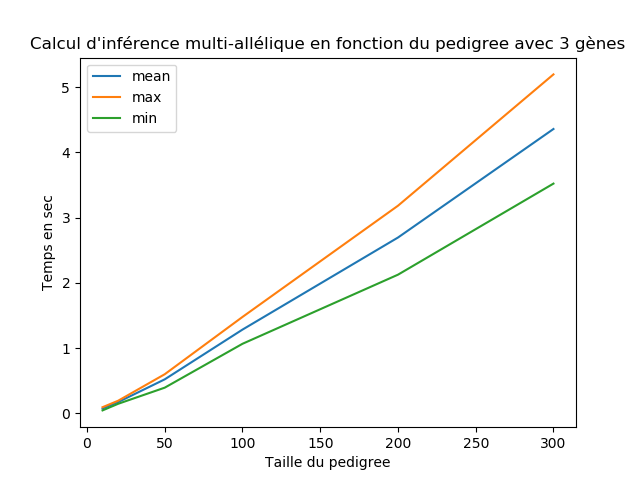
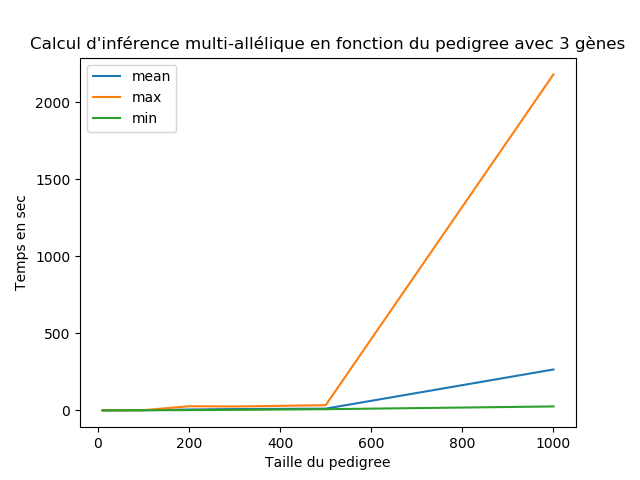
test with lbp

diff --git a/cplex/data/multi/read_file.py b/cplex/data/multi/read_file.py
@@ -3,10 +3,10 @@ import random
 import matplotlib.pyplot as plt
 import numpy as np
 
-nb_people = [10,20,50,100,200,300,500,1000,1500,2000]
+nb_people = [10,20,50,100,200,300,500,1000]
 #nb_people = [10,20,50,100,200,300,500,1000,1500,2000,2100,2200,2300,2400]
-g = 2
-gene_depart = 2
+g = 3
+gene_depart = 3
 def file_to_data(file,g):
     res = dict()
     max_res = dict()
@@ -67,43 +67,9 @@ def file_to_data(file,g):
 
     return mean_res,max_res,min_res,errorValues_res
 
-#mean_res,max_res,min_res,errorValues_res = file_to_data('./data_bn', 4)
-#mean_res,max_res,min_res,errorValues_res = file_to_data('/home/valentin/Documents/Stage/backup/multi/Nouveau dossier/data_bn', 4)
-# f1 = plt.figure(1)
-# legende = []
-#
-# for i in range(2,g+1):
-#     c = (random.random(), random.random(), random.random())
-#     ec = (random.random(),random.random(),random.random())
-#     plt.errorbar(nb_people, mean_res[i], yerr = errorValues_res[i], ecolor=ec,color=c)
-#     legende.append(f'{i}gène(s)')
-# plt.legend(legende)
-# plt.title('Temps de génération du BN en fonction de la taille du pedigree')
-# plt.xlabel('Taille du pedigree')
-# plt.ylabel('Temps en sec')
-# plt.savefig('./Temps de génération du BN en fonction de la taille du pedigree avec ecart-type')
-# #plt.savefig('/home/valentin/Documents/Stage/backup/multi/Nouveau dossier/Temps de génération du BN en fonction de la taille du pedigree avec ecart-type')
-# f1.show()
-#
-# mean_res,max_res,min_res,errorValues_res = file_to_data('./data_inf', 4)
-# #mean_res,max_res,min_res,errorValues_res = file_to_data('/home/valentin/Documents/Stage/backup/multi/Nouveau dossier/data_inf', 4)
-# f2 = plt.figure(1)
-# legende = []
-# for i in range(2,g+1):
-#     c = (random.random(), random.random(), random.random())
-#     ec = (random.random(),random.random(),random.random())
-#     plt.errorbar(nb_people, mean_res[i], yerr = errorValues_res[i], ecolor=ec,color=c)
-#     legende.append(f'{i}gène(s)')
-# plt.legend(legende)
-# plt.title('Calcul d\'inférence multi-allélique en fonction du pedigree avec Lazy')
-# plt.xlabel('Taille du pedigree')
-# plt.ylabel('Temps en sec')
-# plt.savefig('./Calcul d\'inférence multi-allélique avec Lazy')
-# #plt.savefig('/home/valentin/Documents/Stage/backup/multi/Nouveau dossier/Calcul d\'inférence multi-allélique avec Lazy')
-# f2.show()
 
-
-mean_res,max_res,min_res,errorValues_res = file_to_data('./data_bn_2G_30', 4)
+#mean_res,max_res,min_res,errorValues_res = file_to_data('./data_bn_3G_10', 4)
+mean_res,max_res,min_res,errorValues_res = file_to_data('./lbp/data_bn_3G_10', 4)
 #mean_res,max_res,min_res,errorValues_res = file_to_data('/home/valentin/Documents/Stage/backup/multi/Nouveau dossier/data_bn', 4)
 for i in range(gene_depart,g+1):
     plt.figure()
@@ -114,11 +80,13 @@ for i in range(gene_depart,g+1):
     plt.title(f'Temps de génération du BN en fonction du pedigree avec {i} gènes')
     plt.xlabel('Taille du pedigree')
     plt.ylabel('Temps en sec')
-    plt.savefig(f'./Gen {i} Genes 30 samples')
+    #plt.savefig(f'./Gen {i} Genes 10 samples')
+    plt.savefig(f'./lbp/Gen {i} Genes 10 samples')
     #plt.savefig(f'/home/valentin/Documents/Stage/backup/multi/Nouveau dossier/Temps de génération du BN multi-allélique en fonction du pedigree avec {i} gènes')
     plt.show()
 
-mean_res,max_res,min_res,errorValues_res = file_to_data('./data_inf_2G_30', 4)
+#mean_res,max_res,min_res,errorValues_res = file_to_data('./data_inf_3G_10', 4)
+mean_res,max_res,min_res,errorValues_res = file_to_data('./lbp/data_inf_3G_10', 4)
 #mean_res,max_res,min_res,errorValues_res = file_to_data('/home/valentin/Documents/Stage/backup/multi/Nouveau dossier/data_inf', 4)
 for i in range(gene_depart,g+1):
     plt.figure()
@@ -129,6 +97,7 @@ for i in range(gene_depart,g+1):
     plt.title(f'Calcul d\'inférence multi-allélique en fonction du pedigree avec {i} gènes')
     plt.xlabel('Taille du pedigree')
     plt.ylabel('Temps en sec')
-    plt.savefig(f'./Inf {i} genes 30 samples')
+    #plt.savefig(f'./Inf {i} genes 10 samples')
+    plt.savefig(f'./lbp/Inf {i} genes 10 samples')
     #plt.savefig(f'/home/valentin/Documents/Stage/backup/multi/Nouveau dossier/Calcul d\'inférence multi-allélique avec {i} gènes')
     plt.show()

diff --git a/cplex/multi/cplex_mutli.py b/cplex/multi/cplex_mutli.py
@@ -1,6 +1,7 @@
 from bped2.pedigree import *
 import bped2.view as pview
 import sandbox.doLazyProg as laz
+import sandbox.doLBP as lbp
 from time import *
 import numpy as np
 # import matplotlib.pyplot as plt
@@ -9,7 +10,7 @@ import numpy as np
 import math
 
 f = 0.05
-nb_ped = 10
+nb_ped = 30
 nb_people = [10,20,50,100,200,300,500,1000,1500,2000,2100,2200,2300,2400]
 nb_Gen_Max = [3,3,4,4,4,4,4,5,5,6,6,6,6,7]
 # nb_people = [10,20,100,2000]
@@ -22,8 +23,10 @@ gene = 3
 distance = [0.8,0.7,0.5]
 centimorgans = [0.295797287184, 0.296353882133, 0.299343592142, 0.59]
 
-file_bn = open('../data/multi/data_bn_3G_10', 'w')
-file_inf = open('../data/multi/data_inf_3G_10', 'w')
+# file_bn = open('../data/multi/data_bn_3G_10', 'w')
+# file_inf = open('../data/multi/data_inf_3G_10', 'w')
+file_bn = open('../data/multi/lbp/data_bn_3G_10', 'w')
+file_inf = open('../data/multi/lbp/data_inf_3G_10', 'w')
 sen = Pedigree()
 sen.load('../../data/ped/senegal2013.ped')
 len_sen = len(sen)
@@ -99,7 +102,8 @@ for p,g_max,g_min in zip(nb_people,nb_Gen_Max,nb_Gen_Min):
             pview.save_bn(bn,f'./bn/bn_{p}_{g}_{nbChild}_{cl}_G{nb}')
 
             t5 = process_time()
-            laz.doLazyProg(f"./bn/bn_{p}_{g}_{nbChild}_{cl}_G{nb}.bif")
+            #laz.doLazyProg(f"./bn/bn_{p}_{g}_{nbChild}_{cl}_G{nb}.bif")
+            lbp.doLBP(f"./bn/bn_{p}_{g}_{nbChild}_{cl}_G{nb}.bif")
             t6 = process_time()
 
             t4 = t4 - t3
@@ -137,7 +141,7 @@ for p,g_max,g_min in zip(nb_people,nb_Gen_Max,nb_Gen_Min):
 file_bn.close()
 file_inf.close()
 
-final = open('../data/multi/final_2G', 'w')
+final = open('../data/multi/lbp/final_2G', 'w')
 for i in range(gene_depart,gene+1):
     final.write(f'{mean_bn[i]}\t{errorValues_bn[i]}\n')
     final.write(f'{mean_inf[i]}\t{errorValues_inf[i]}\n')

diff --git a/bped2/view.py b/bped2/view.py
@@ -343,3 +343,15 @@ def graph_multi(dbn, size=None):
         size = gum.config["dynamicBN", "default_graph_size"]
 
     showGraph(_TimeSlicesToDot(dbn), size)
+
+def load_evidence_multi(file,famID):
+    tab = dict()
+    with open(file,'r') as f:
+        for (line,i) in enumerate(f.readlines()):
+            print(line,'oooo',i)
+            ev = i.split()
+            name = ev[1]
+            if ev[0] == famID:
+                ev = [float(i) for i in ev[2:]]
+                tab[f'X{name}'] = ev
+    return tab
